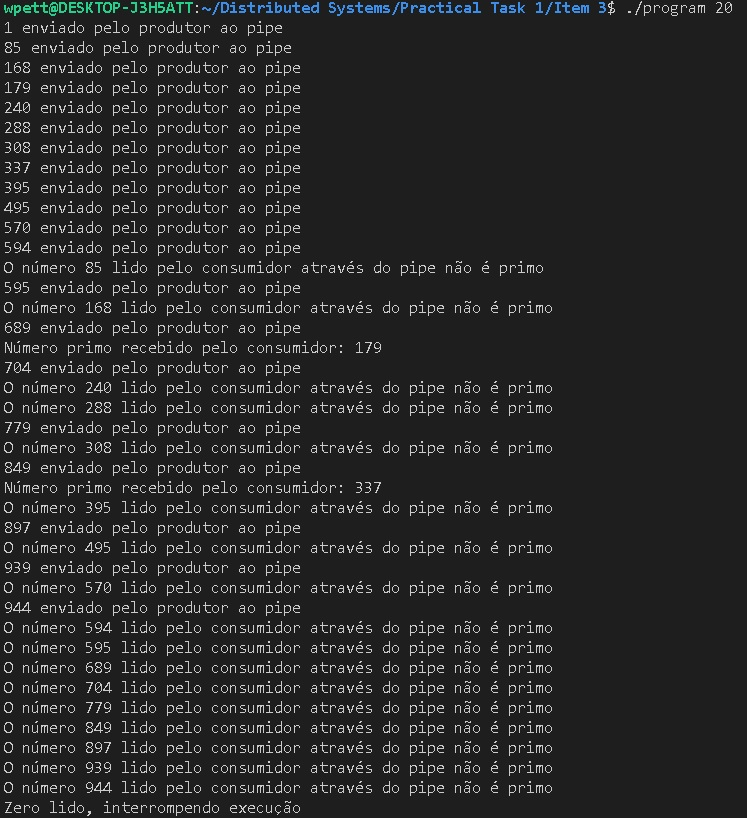
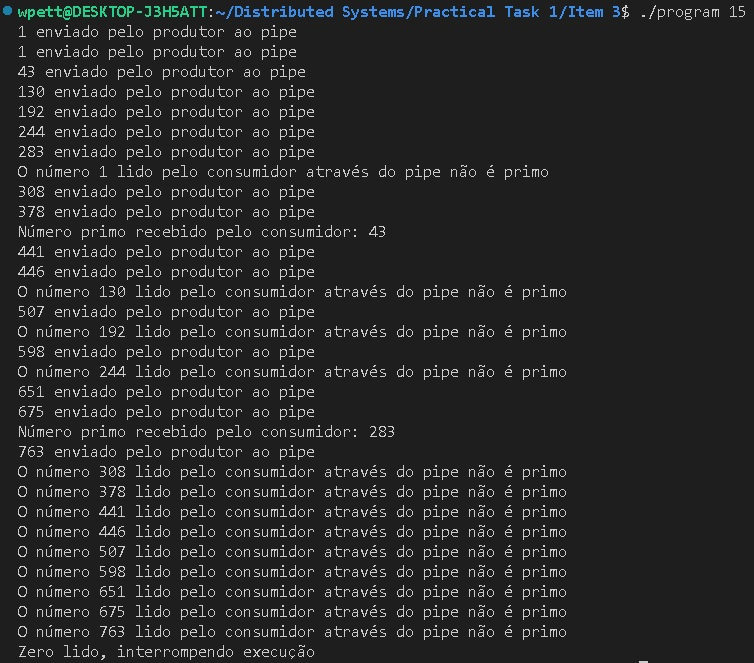
Última Atualização Possível do código dentro do prazo

diff --git a/Practical Task 1/Item 2/2.2-Signal_Receiver.c b/Practical Task 1/Item 2/2.2-Signal_Receiver.c
@@ -1,55 +1,59 @@
-#include <signal.h>
 #include <stdio.h>
+#include <signal.h>
 #include <stdlib.h>
 #include <unistd.h>
 #include <string.h>
 
-void sig_handler(int sig) {
-  switch (sig) {
-    case SIGUSR1:
-      printf("Sinal SIGUSR1 recebido, finalizando execução...\n");
-      exit(0);
-      break;
-    case SIGUSR2:
-      printf("Sinal SIGUSR2 recebido, finalizando execução...\n");
-      exit(2);
-      break;
-    case SIGINT:
-      printf("Sinal SIGINT recebido, finalizando execução...\n");
-      exit(0);
-      break;
-    default:
-      printf("Sinal recebido desconhecido\n");
-      break;
-  }
+volatile int keepRunning = 1;
+
+void handleSignal(int signalNumber) {
+    switch(signalNumber) {
+        case SIGUSR1:
+            printf("Recebi o sinal SIGUSR1.\n");
+            break;
+        case SIGUSR2:
+            printf("Recebi o sinal SIGUSR2.\n");
+            break;
+        case SIGTERM:
+            printf("Recebi o sinal SIGTERM. Terminando...\n");
+            keepRunning = 0;
+            break;
+        default:
+            printf("Recebi um sinal desconhecido: %d\n", signalNumber);
+    }
 }
 
-int main(int argc, char *argv[]) {
-  if (argc != 2) {
-    printf("Uso: %s [busy|blocking]\n", argv[0]);
-    exit(1);
-  }
-
-  struct sigaction sa;
-  sa.sa_flags = 0;
-  sa.sa_handler = &sig_handler;
-  sigemptyset(&sa.sa_mask);
-  sigaction(SIGUSR1, &sa, NULL);
-  sigaction(SIGUSR2, &sa, NULL);
-  sigaction(SIGINT, &sa, NULL);
-
-  if (strcmp(argv[1], "busy") == 0) {
-    printf("Aguardando por sinais (busy wait)...\n");
-    while (1)
-      ;
-  } else if (strcmp(argv[1], "blocking") == 0) {
-    printf("Aguardando por sinais (blocking wait)...\n");
-    while (1)
-      sleep(1);
-  } else {
-    printf("Opção inválida: %s\n", argv[1]);
-    exit(1);
-  }
-
-  return 0;
+int main(int argc, char **argv) {
+    if (argc != 2) {
+        printf("Erro: informe o modo de espera (busy ou blocking).\n");
+        exit(1);
+    }
+    
+    char *waitMode = argv[1];
+    
+    struct sigaction action;
+    action.sa_handler = handleSignal;
+    sigemptyset(&action.sa_mask);
+    action.sa_flags = 0;
+    sigaction(SIGUSR1, &action, NULL);
+    sigaction(SIGUSR2, &action, NULL);
+    sigaction(SIGTERM, &action, NULL);
+    
+    if (strcmp(waitMode, "busy") == 0) {
+      printf("Aguardando por sinais (busy wait)...\n");
+      while(keepRunning) {}
+    }
+    else if (strcmp(waitMode, "blocking") == 0) {
+      printf("Aguardando por sinais (blocking wait)...\n");
+      while(keepRunning) {
+        pause();
+      }
+    }
+    else {
+      printf("Erro: modo de espera inválido.\n");
+      exit(1);
+    }
+    
+    printf("Programa terminado.\n");
+    return 0;
 }

diff --git a/Practical Task 1/Item 4/4.1-Producer.c b/Practical Task 1/Item 4/4.1-Producer.c
@@ -9,14 +9,6 @@
 #define MAX_MSG_LEN 20
 #define PORT 8080
 
-int is_prime(int num) {
-    if (num < 2) return 0;
-    for (int i = 2; i <= num/2; i++) {
-        if (num % i == 0) return 0;
-    }
-    return 1;
-}
-
 int main(int argc, char const *argv[]) {
     srand(time(NULL)); // semente para números aleatórios
 
@@ -57,7 +49,7 @@ int main(int argc, char const *argv[]) {
     current_number = 1;
     for (int i = 0; i < num_values; i++) {
         delta = rand() % 100 + 1;
-
+        printf("Número %d enviado ao consumidor\n", current_number);
         // conversão do número para uma string de tamanho fixo
         snprintf(msg, MAX_MSG_LEN, "%d", current_number);
 
@@ -73,9 +65,9 @@ int main(int argc, char const *argv[]) {
 
         // impressão do resultado
         if (strcmp(msg, "1") == 0) {
-            printf("%d é primo\n", current_number);
+            printf("Resposta recebida pelo consumidor: %d é primo\n", current_number);
         } else {
-            printf("%d não é primo\n", current_number);
+            printf("Resposta recebida do consumidor: %d não é primo\n", current_number);
         }
 
         current_number += delta;

diff --git a/Practical Task 1/Item 2/2.1-Signal_Sender.c b/Practical Task 1/Item 2/2.1-Signal_Sender.c
@@ -1,23 +1,27 @@
-#include <signal.h>
 #include <stdio.h>
+#include <signal.h>
 #include <stdlib.h>
 #include <unistd.h>
 
-int main(int argc, char *argv[]) {
-  if (argc != 3) {
-    printf("Usage: %s pid signal_number\n", argv[0]);
-    exit(1);
-  }
-
-  int pid = atoi(argv[1]);
-  int sig = atoi(argv[2]);
-
-  if (kill(pid, sig) < 0) {
-    perror("kill");
-    exit(1);
-  }
-
-  printf("Sinal %d enviado ao processo %d\n", sig, pid);
-
-  return 0;
+int main(int argc, char **argv) {
+    if (argc != 3) {
+        printf("Erro: informe o PID do processo destino e o número do sinal a ser enviado.\n");
+        exit(1);
+    }
+    
+    int pid = atoi(argv[1]);
+    int signalNumber = atoi(argv[2]);
+    
+    if (kill(pid, 0) != 0) {
+        printf("Erro: processo destino não encontrado.\n");
+        exit(1);
+    }
+    
+    if (kill(pid, signalNumber) != 0) {
+        printf("Erro: não foi possível enviar o sinal.\n");
+        exit(1);
+    }
+    
+    printf("Sinal enviado com sucesso para o processo de PID %d.\n", pid);
+    return 0;
 }

diff --git a/Practical Task 1/Item 3/3-Producer-Consumer_Pipes.c b/Practical Task 1/Item 3/3-Producer-Consumer_Pipes.c
@@ -23,14 +23,14 @@ void producer(int pipefd[], int num_elements) {
     int current_number = 1;
     printf("%d enviado pelo produtor ao pipe\n", current_number);
 
-    for (int i = 1; i < num_elements; i++) {
+    for (int i = 0; i < num_elements; i++) {
         int delta = (rand() % 100) + 1;
-        current_number += delta;
         printf("%d enviado pelo produtor ao pipe\n", current_number);
 
         char buffer[BUFFER_SIZE];
         snprintf(buffer, BUFFER_SIZE, "%d", current_number);
         write(pipefd[PIPE_WRITE], buffer, BUFFER_SIZE);
+        current_number += delta;
     }
 
     char buffer[BUFFER_SIZE] = "0";
